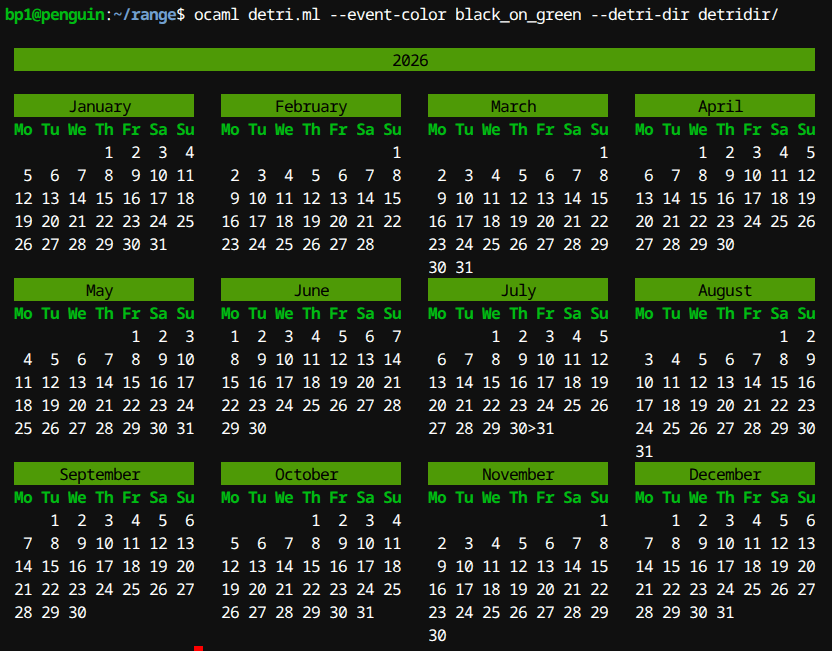
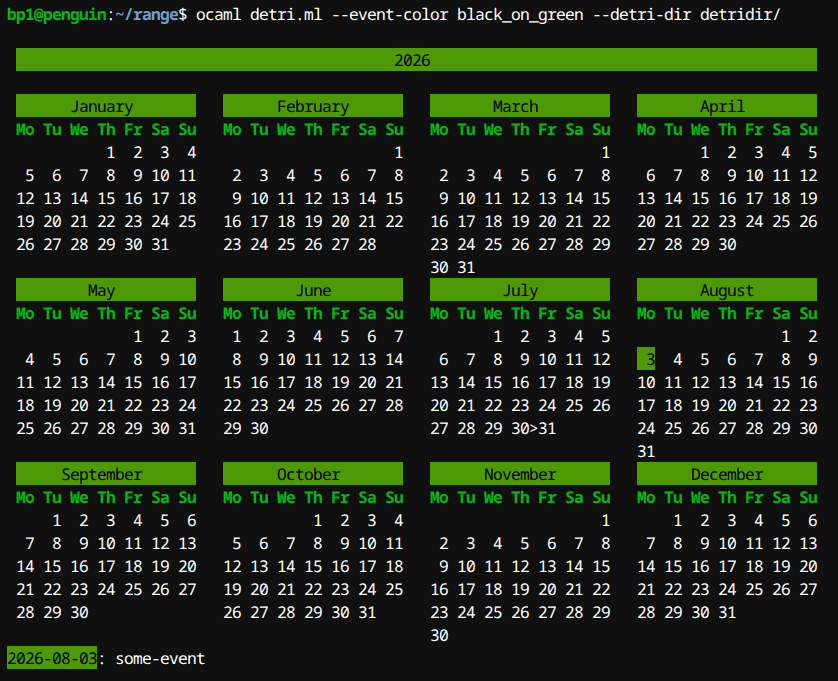
better image for the calendar with ranges of days

Changed region(s): [[0.0, 0.0614, 1.0, 1.0], [0.0, 0.0, 0.9375, 0.0614]]

diff --git a/html/ocaml2/detris/range.html b/html/ocaml2/detris/range.html
@@ -88,7 +88,7 @@ ul li {
 
   <div class='grp'>
     <p>Screenshot:</p>
-    <p><a href="./range/detri-range.png"><img src="./range/detri-range.png" width="832" height="651" /></a></p>
+    <p><a href="./range/detri-range.png"><img src="./range/detri-range.png" width="838" height="681" /></a></p>
   </div>
 
 </div>
